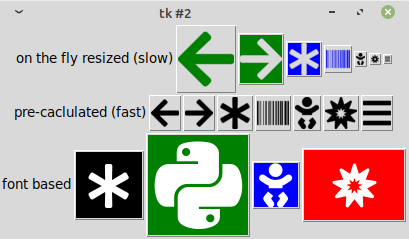
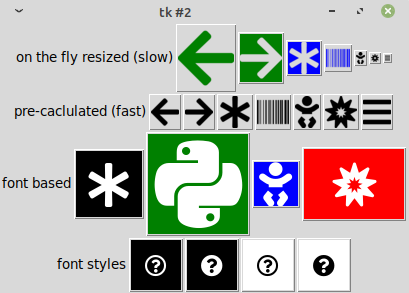
font style sample

diff --git a/sample.py b/sample.py
@@ -137,5 +137,48 @@ tk.Button(frame3, justify=tk.LEFT, padx=10, image=im_bahai).pack(side="left")
 frame3.pack()
 
 
+frame4 = tk.Frame(root)
+
+tk.Label(frame4, text="font styles").pack(side="left")
+
+im_quest = get_font_icon(
+    "question-circle",
+    style="regular",
+    height=22,
+    image_size=(50, 50),
+    bg="black",
+    fg="white",
+)
+tk.Button(frame4, justify=tk.LEFT, padx=10, image=im_quest).pack(side="left")
+
+im_quest2 = get_font_icon(
+    "question-circle",
+    style="solid",
+    height=22,
+    image_size=(50, 50),
+    bg="black",
+    fg="white",
+)
+tk.Button(frame4, justify=tk.LEFT, padx=10, image=im_quest2).pack(side="left")
+
+im_quest3 = get_font_icon(
+    "question-circle",
+    style="regular",
+    height=22,
+    image_size=(50, 50),
+)
+tk.Button(frame4, justify=tk.LEFT, padx=10, image=im_quest3).pack(side="left")
+
+im_quest4 = get_font_icon(
+    "question-circle",
+    style="solid",
+    height=22,
+    image_size=(50, 50),
+)
+tk.Button(frame4, justify=tk.LEFT, padx=10, image=im_quest4).pack(side="left")
+
+frame4.pack()
+
+
 # run tkinter mainloop
 root.mainloop()
